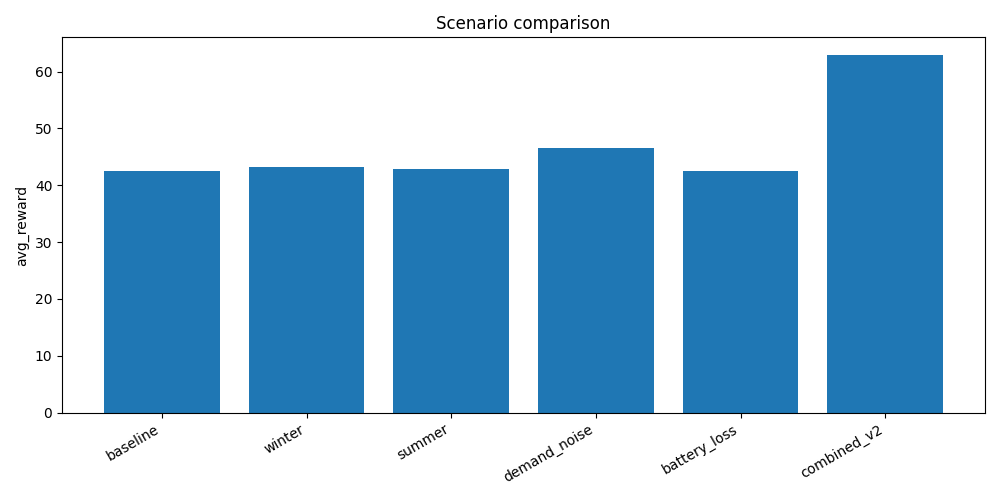
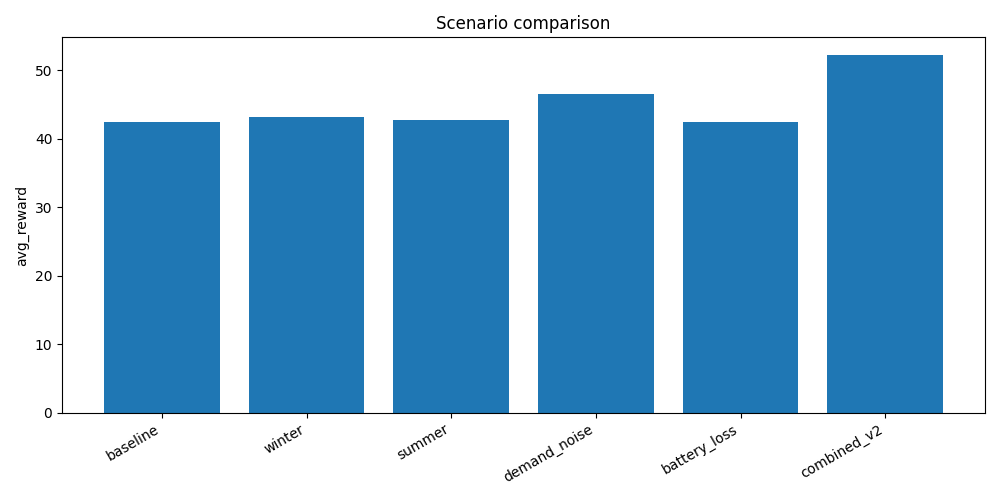
(fix) align v2 metric handling and remove reward shaping from combined_v2

diff --git a/src/envs/factory.py b/src/envs/factory.py
@@ -3,7 +3,6 @@ from __future__ import annotations
 from src.envs.smartgrid_env import SmartGridEnv
 from src.wrappers.battery_loss_wrapper import BatteryLossWrapper
 from src.wrappers.demand_noise_wrapper import DemandNoiseWrapper
-from src.wrappers.reward_shaping_wrapper import RewardShapingWrapper
 from src.wrappers.season_wrapper import SeasonWrapper
 
 
@@ -76,7 +75,6 @@ def build_env_from_scenario(
             discharge_loss_prob=config["discharge_loss_prob"],
             leakage_prob=config["leakage_prob"],
         )
-        env = RewardShapingWrapper(env)
         return env
 
     raise ValueError(f"Scenario is configured but not implemented in factory: {scenario_name}")
